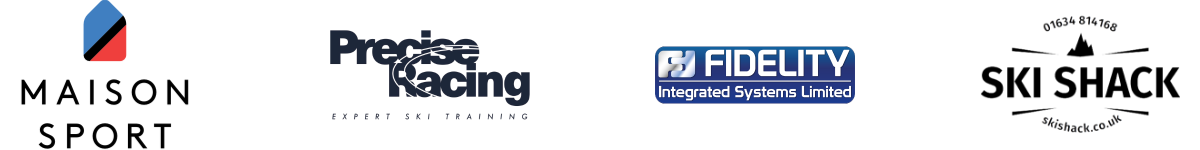
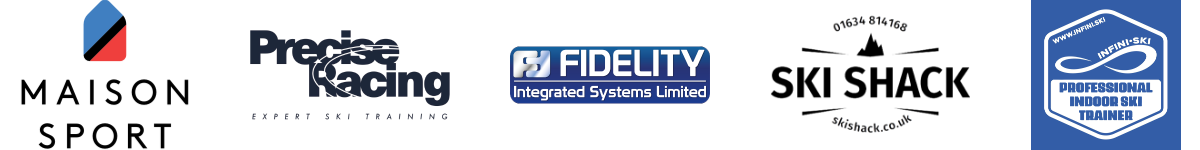
Add InfiniSki to sponsors

diff --git a/src/styles/_homepage.scss b/src/styles/_homepage.scss
@@ -4,11 +4,11 @@
 
 .sponsor-logo-grid {
     display: grid;
-    grid-template-columns: repeat(4, 1fr);
+    grid-template-columns: repeat(5, 1fr);
     column-gap: 2.0rem;
 
     @media (max-width: 900px) {
-        grid-template-columns: repeat(4, 1fr);
+        grid-template-columns: repeat(5, 1fr);
     }
 }
 
